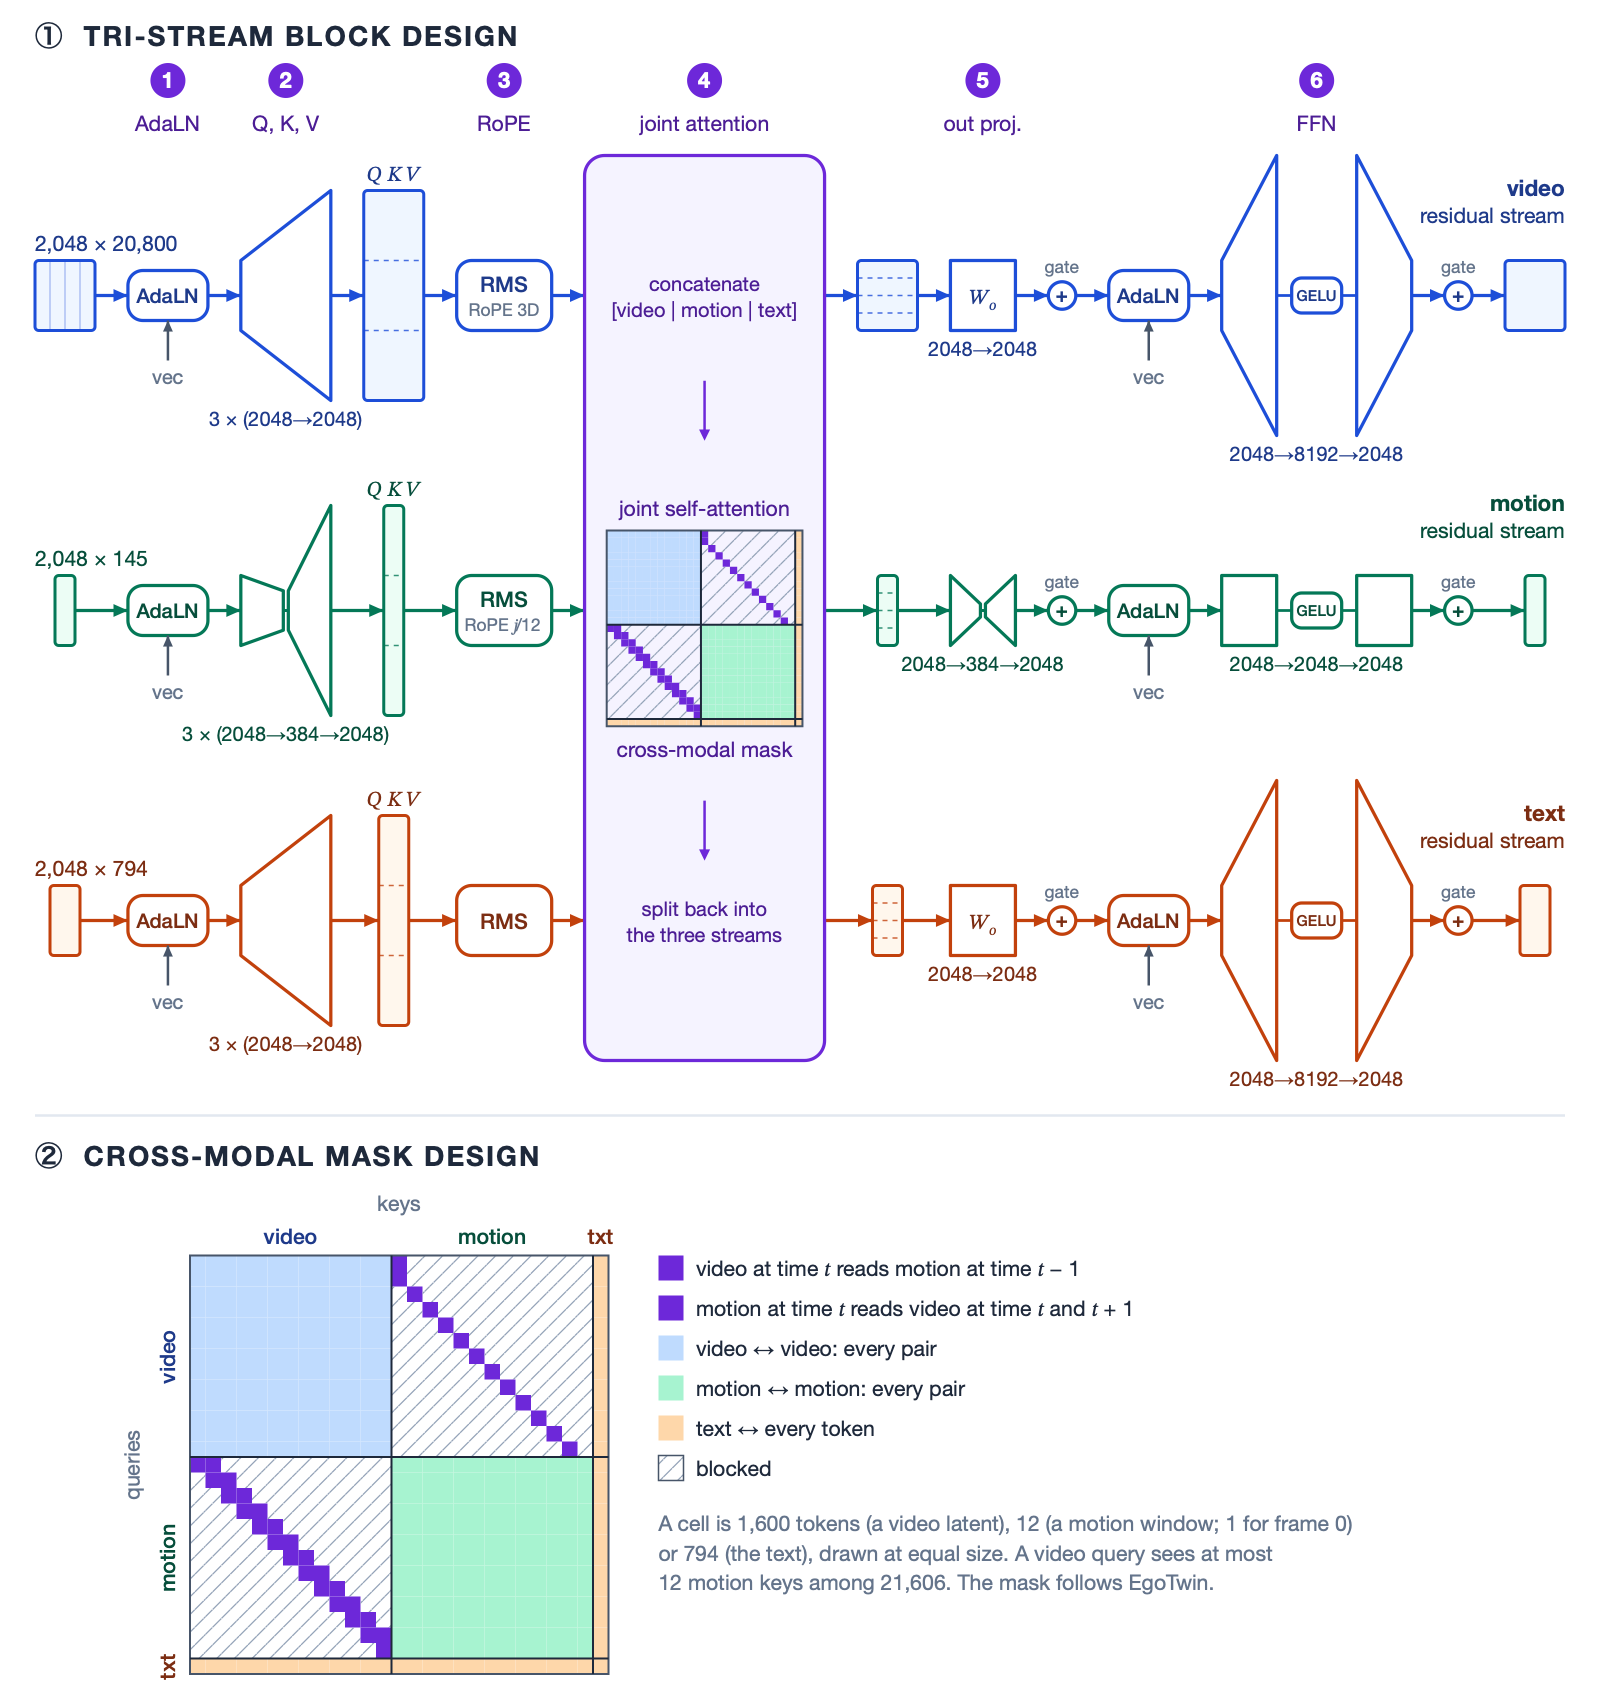
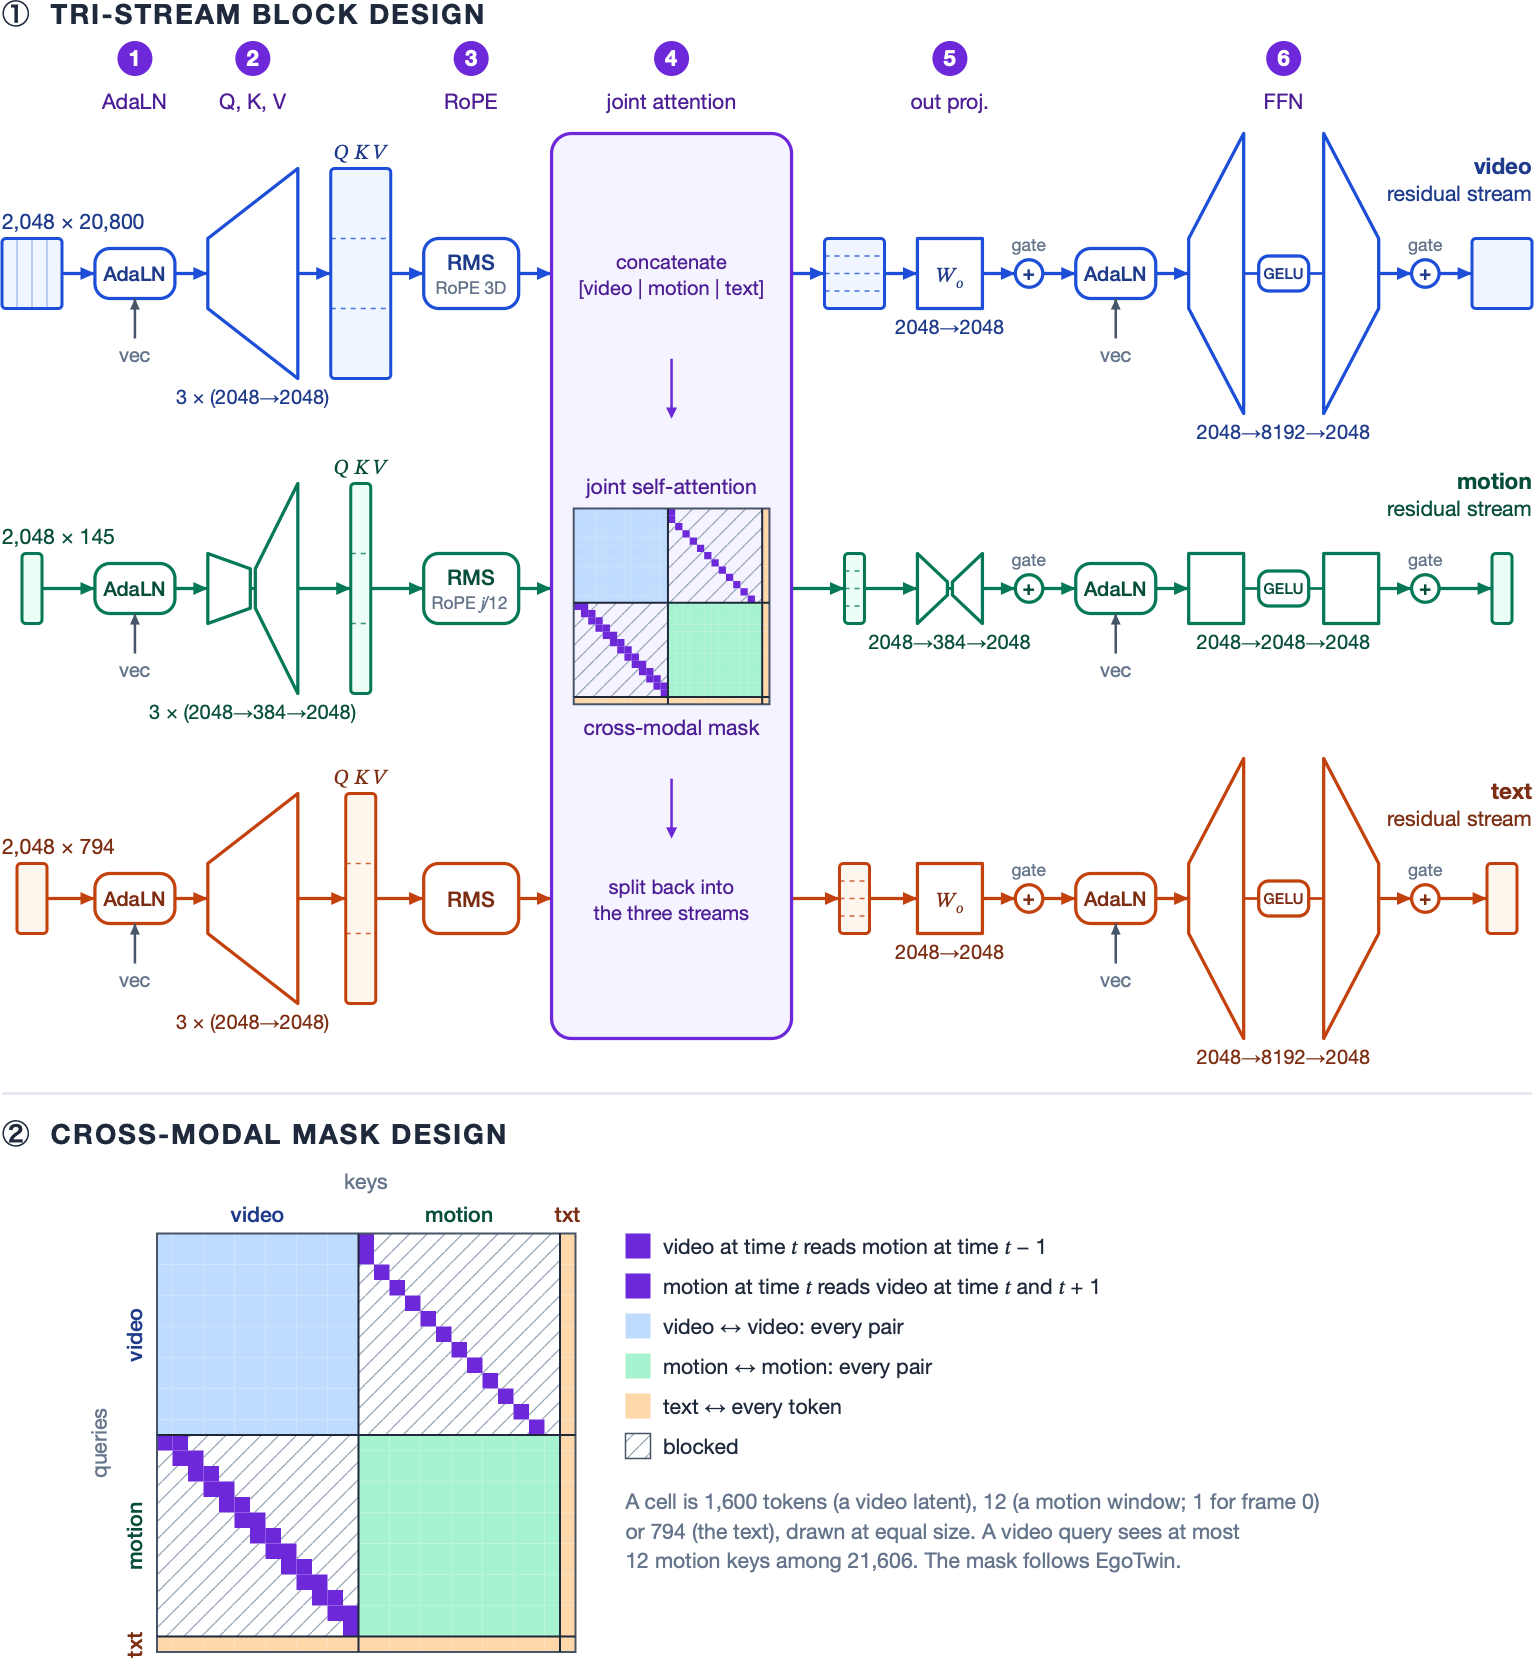
Post: drop the three-tasks figure's caption; the block figure spans the text column (white margins trimmed)

diff --git a/index.html b/index.html
@@ -37,7 +37,7 @@ li { margin: 0 0 8px; }
 .katex-display { margin: 18px 0 22px; overflow-x: auto; overflow-y: hidden; padding: 2px 0; }
 figure { margin: 26px 0 30px; }
 figure img { display: block; width: 100%; max-width: 960px; height: auto; margin: 0 auto; }
-figure.narrow img { max-width: 620px; }
+figure.narrow img { max-width: var(--text); }  /* as wide as the text column */
 figcaption { font-size: 14.5px; line-height: 1.55; color: var(--muted); max-width: var(--text); margin: 12px auto 0; }
 .table-wrap { overflow-x: auto; margin: 6px 0 4px; }
 table.results { width: 100%; border-collapse: collapse; font-size: 15px; font-variant-numeric: tabular-nums; }
@@ -173,10 +173,7 @@ both memory and time. In this project, we integrate some techniques to make this
 <p> The tasks differ only in what is given. During
 training the video and the motion get independent noise levels, so at sampling time a given modality is simply held at
 noise level zero while the other is denoised from pure noise.</p>
-<figure class="wide"><img src="figures/arch_tasks.jpg" width="2000" height="1250" loading="lazy" alt="The three tasks as given and generated tokens">
-<figcaption>The three tasks differ only in their conditioning. Given video latents show the clip's frames, and given motion
-shows its MHR body at the matching time, colored green to purple over time; generated tokens start as noise and are
-denoised. The first frame, the first pose and the text prompt are given in all three.</figcaption></figure>
+<figure class="wide"><img src="figures/arch_tasks.jpg" width="2000" height="1250" loading="lazy" alt="The three tasks as given and generated tokens"></figure>
 
 <h3>Data</h3>
 <p>We train on NymeriaPlus, an extension of the <a href="https://arxiv.org/abs/2406.09905">Nymeria</a> dataset, in which
@@ -201,7 +198,7 @@ representation: the pose of the glasses' central pupil frame (CPF) as the root, 
 rotations and velocities of 23 body joints, all in a gravity-aligned frame anchored at the first frame's head. There is no
 learned motion autoencoder. Rooting the motion at the head rather than the pelvis means the camera can be read straight out
 of a generated motion, which is what the geometric reward below needs.</p>
-<figure class="wide narrow"><img src="figures/arch_block.png" width="1600" height="1698" loading="lazy" alt="The tri-stream block and the cross-modal mask">
+<figure class="wide narrow"><img src="figures/arch_block.png" width="1534" height="1658" loading="lazy" alt="The tri-stream block and the cross-modal mask">
 <figcaption>One tri-stream block; these form the first 18 of HunyuanVideo&nbsp;1.5's 54 blocks. (1) Each stream has its own
 modulation, projections and feed-forward network, and the three meet in a self-attention over the concatenated sequence.
 (2) EgoTwin's cross-modal mask, adapted to a model without a learned motion autoencoder.</figcaption></figure>

diff --git a/post_template.html b/post_template.html
@@ -37,7 +37,7 @@ li { margin: 0 0 8px; }
 .katex-display { margin: 18px 0 22px; overflow-x: auto; overflow-y: hidden; padding: 2px 0; }
 figure { margin: 26px 0 30px; }
 figure img { display: block; width: 100%; max-width: 960px; height: auto; margin: 0 auto; }
-figure.narrow img { max-width: 620px; }
+figure.narrow img { max-width: var(--text); }  /* as wide as the text column */
 figcaption { font-size: 14.5px; line-height: 1.55; color: var(--muted); max-width: var(--text); margin: 12px auto 0; }
 .table-wrap { overflow-x: auto; margin: 6px 0 4px; }
 table.results { width: 100%; border-collapse: collapse; font-size: 15px; font-variant-numeric: tabular-nums; }
@@ -162,10 +162,7 @@ both memory and time. In this project, we integrate some techniques to make this
 <p> The tasks differ only in what is given. During
 training the video and the motion get independent noise levels, so at sampling time a given modality is simply held at
 noise level zero while the other is denoised from pure noise.</p>
-<figure class="wide"><img src="figures/arch_tasks.jpg" width="2000" height="1250" loading="lazy" alt="The three tasks as given and generated tokens">
-<figcaption>The three tasks differ only in their conditioning. Given video latents show the clip's frames, and given motion
-shows its MHR body at the matching time, colored green to purple over time; generated tokens start as noise and are
-denoised. The first frame, the first pose and the text prompt are given in all three.</figcaption></figure>
+<figure class="wide"><img src="figures/arch_tasks.jpg" width="2000" height="1250" loading="lazy" alt="The three tasks as given and generated tokens"></figure>
 
 <h3>Data</h3>
 <p>We train on NymeriaPlus, an extension of the <a href="https://arxiv.org/abs/2406.09905">Nymeria</a> dataset, in which
@@ -190,7 +187,7 @@ representation: the pose of the glasses' central pupil frame (CPF) as the root, 
 rotations and velocities of 23 body joints, all in a gravity-aligned frame anchored at the first frame's head. There is no
 learned motion autoencoder. Rooting the motion at the head rather than the pelvis means the camera can be read straight out
 of a generated motion, which is what the geometric reward below needs.</p>
-<figure class="wide narrow"><img src="figures/arch_block.png" width="1600" height="1698" loading="lazy" alt="The tri-stream block and the cross-modal mask">
+<figure class="wide narrow"><img src="figures/arch_block.png" width="1534" height="1658" loading="lazy" alt="The tri-stream block and the cross-modal mask">
 <figcaption>One tri-stream block; these form the first 18 of HunyuanVideo&nbsp;1.5's 54 blocks. (1) Each stream has its own
 modulation, projections and feed-forward network, and the three meet in a self-attention over the concatenated sequence.
 (2) EgoTwin's cross-modal mask, adapted to a model without a learned motion autoencoder.</figcaption></figure>

diff --git a/make_post_figures.py b/make_post_figures.py
@@ -19,6 +19,8 @@ THESIS, SITE = Path(sys.argv[1]), Path(sys.argv[2])
 # name: (format, pixel width)
 FIGURES = {"arch_tasks": ("jpg", 2000), "data_example_kitchen_walk": ("jpg", 2000), "arch_block": ("png", 1600),
            "arch_sidecar": ("png", 2000)}
+# Figures shown at the text column's width: their white page margins are trimmed, so the drawing meets the text's edges.
+TRIM = {"arch_block"}
 
 
 def render(pdf, out, width, kind):
@@ -76,6 +78,12 @@ def thumbnail(im, size=176):
 for name, (kind, width) in FIGURES.items():
     out = SITE / "figures" / f"{name}.{kind}"
     w, h = render(THESIS / "figures" / f"{name}.pdf", out, width, kind)
+    if name in TRIM:
+        im = Image.open(out).convert("RGB")
+        ys, xs = np.nonzero(np.asarray(im).min(axis=2) < 245)
+        im = im.crop((int(xs.min()), int(ys.min()), int(xs.max()) + 1, int(ys.max()) + 1))
+        im.save(out)
+        w, h = im.size
     print(f"{out.name}: {w} x {h}, {out.stat().st_size / 1e3:.0f} kB")
 (SITE / "figures" / "thumbs").mkdir(exist_ok=True)
 with tempfile.TemporaryDirectory() as tmp:
